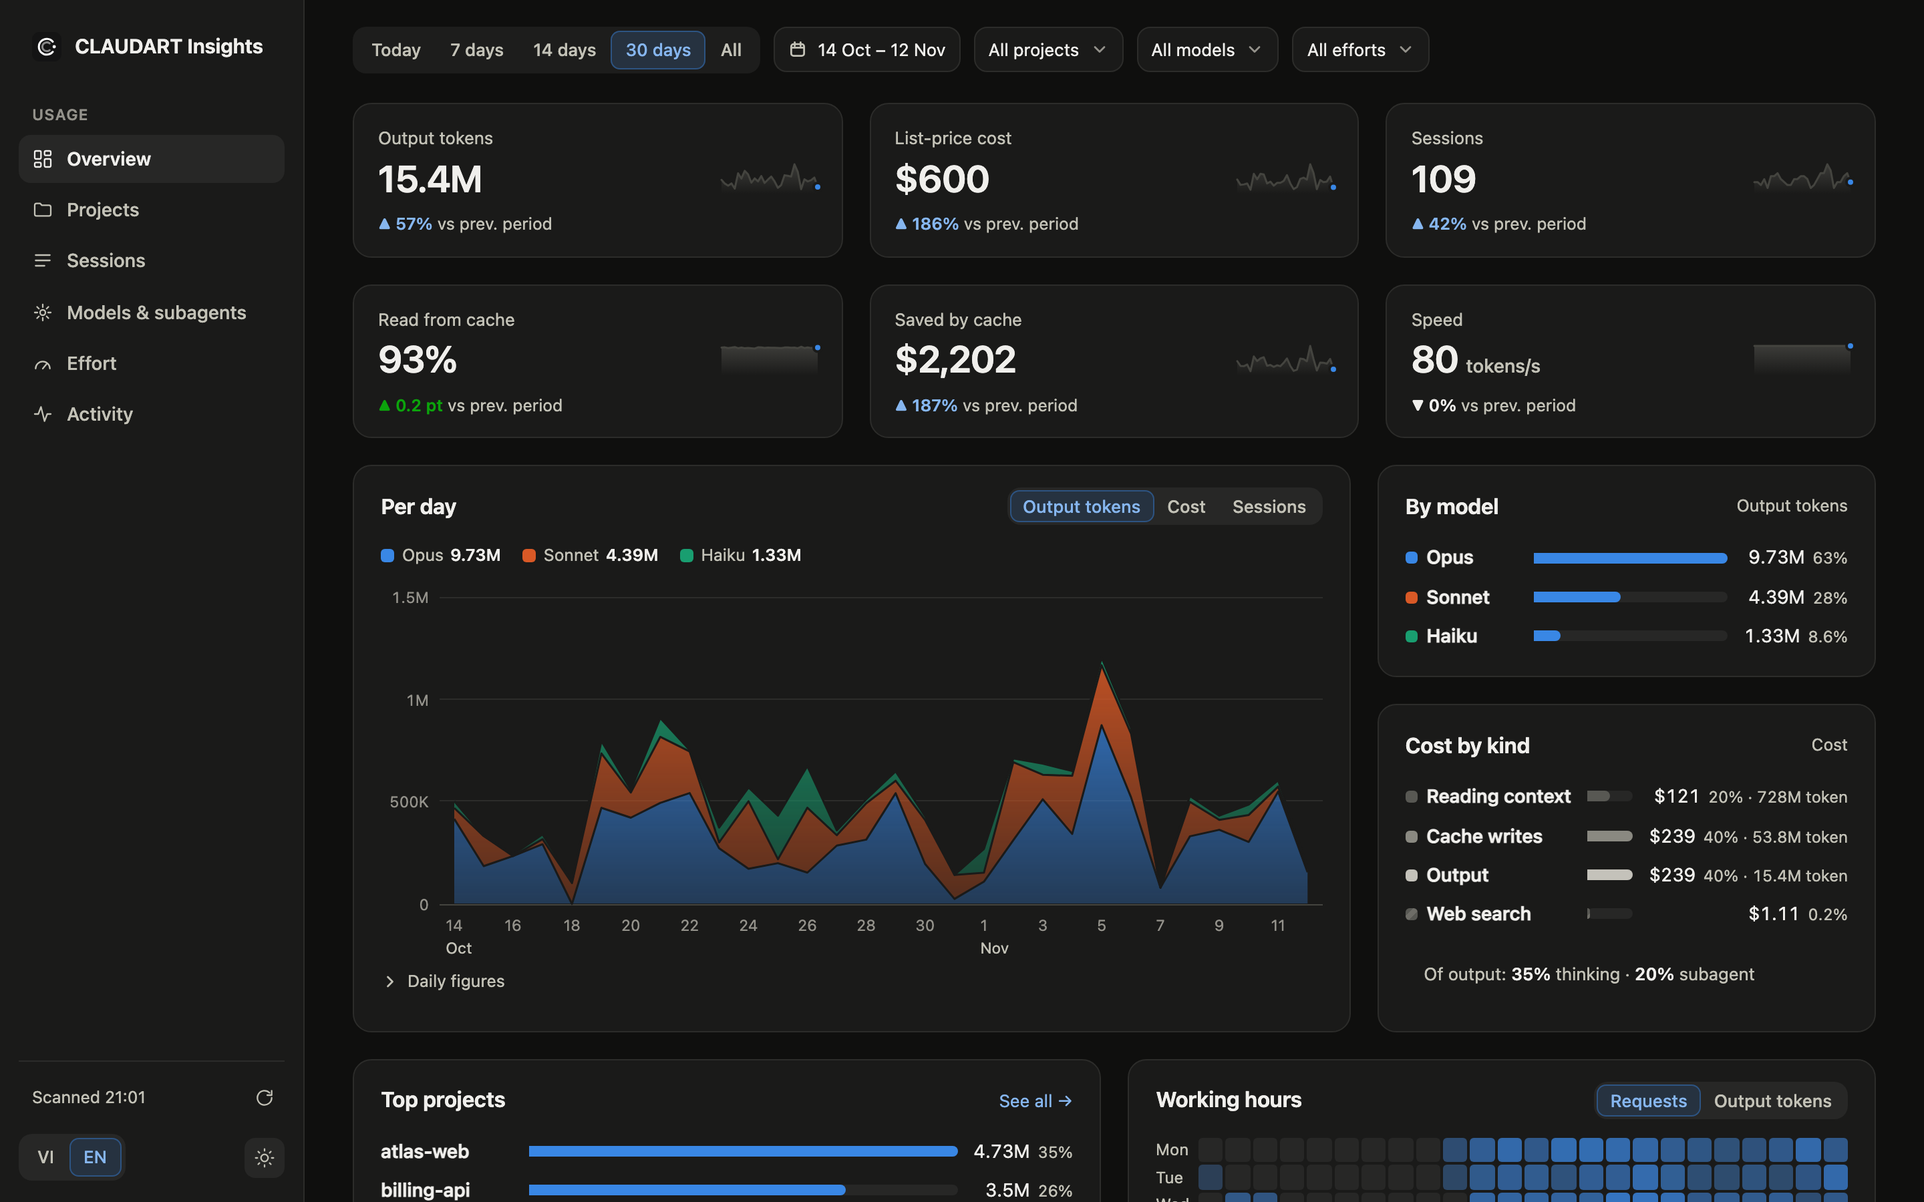
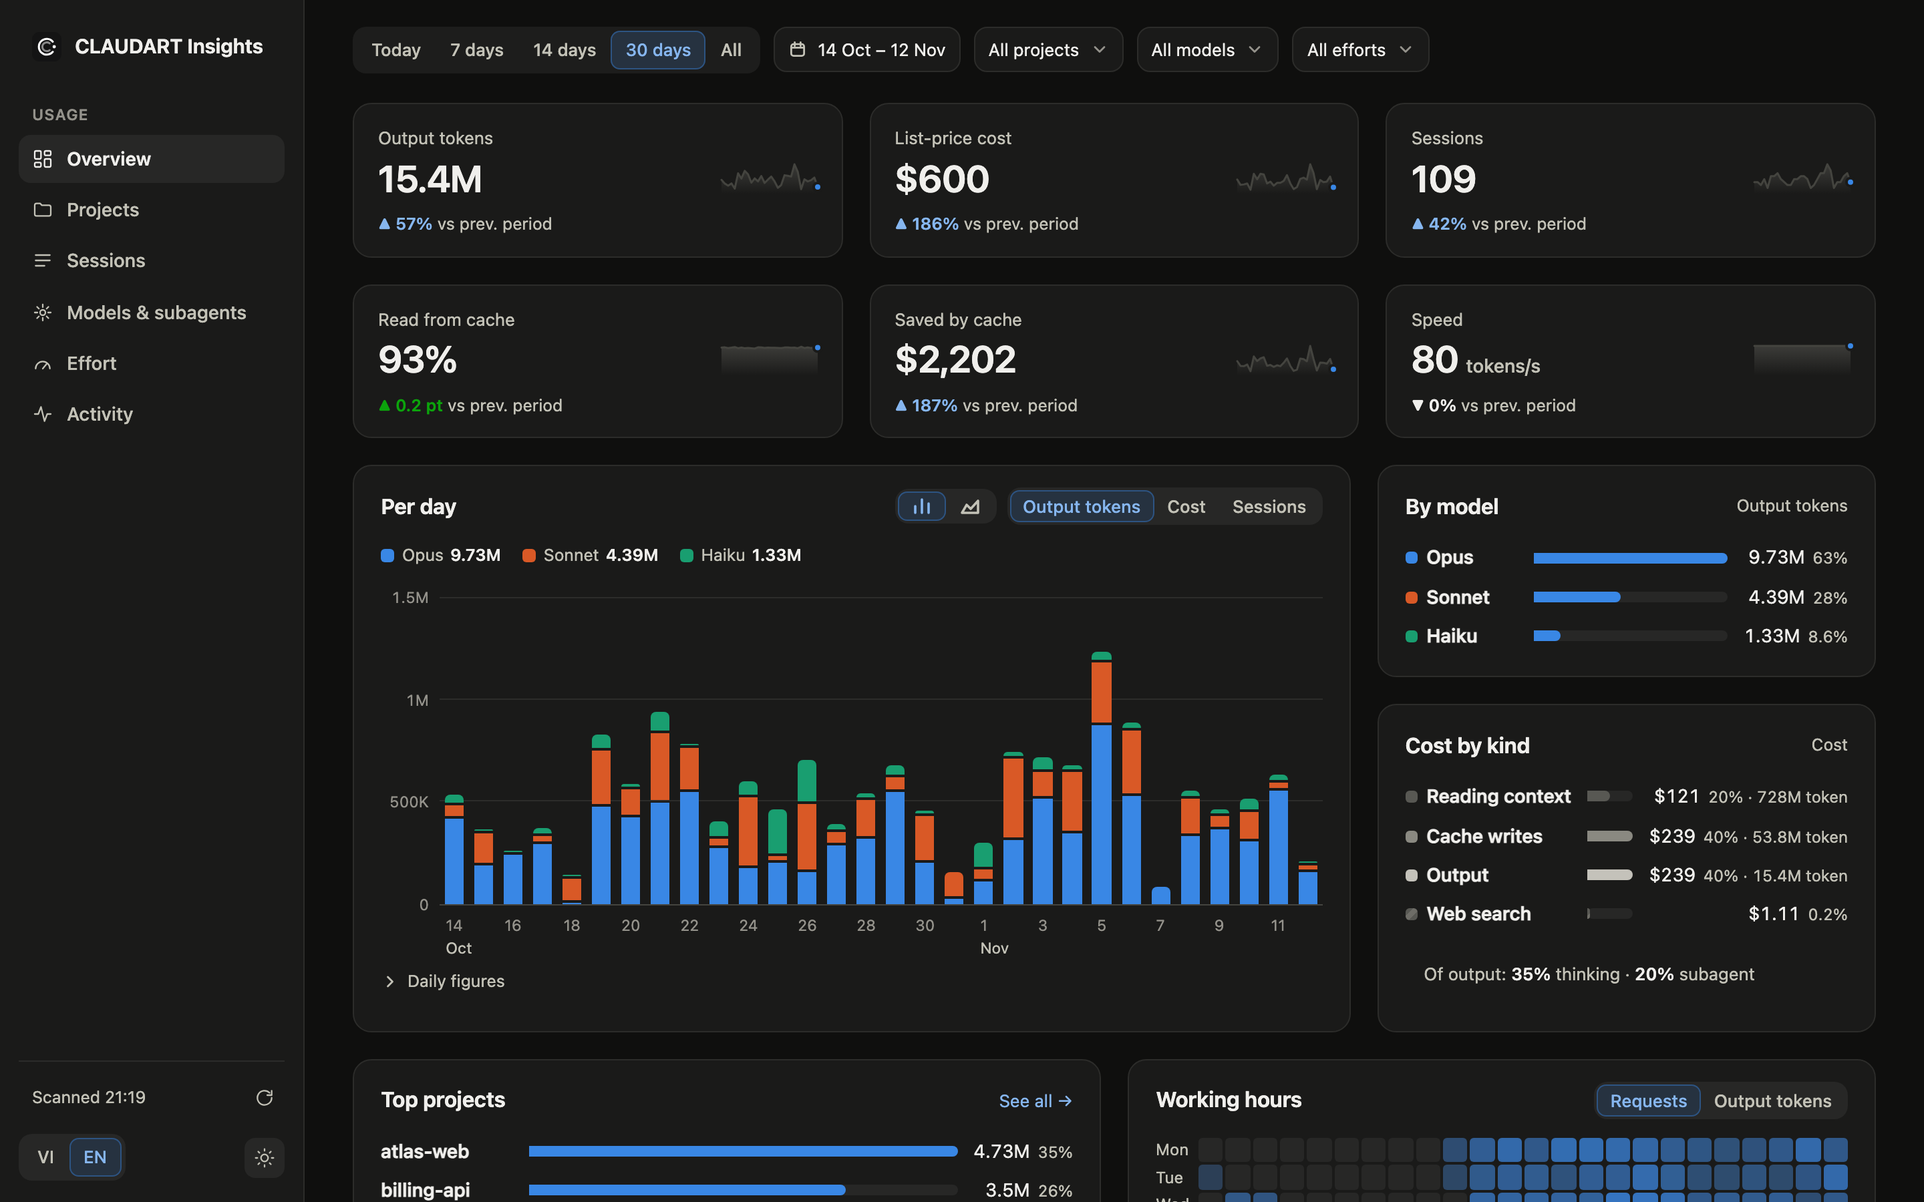
feat(dashboard): let each per-day chart switch between columns and areas

Changed region(s): [[0.2188, 0.5289, 0.6875, 0.7778], [0.4688, 0.4044, 0.5, 0.4356]]

diff --git a/dashboard/src/i18n.tsx b/dashboard/src/i18n.tsx
@@ -2,7 +2,7 @@
 export const T = {
   vi: { usage: "Sử dụng", overview: "Tổng quan", projects: "Dự án", sessions: "Phiên làm việc", models: "Model & subagent", activity: "Hoạt động",
     scanned: "Quét lúc", untitled: "(chưa có tiêu đề)", costUnknown: "Không có bản ghi chi phí của host", costEstimated: "Không có bản ghi chi phí của host; ước tính theo bảng giá", costPartial: "Host đánh dấu chi phí chưa đủ", today: "Hôm nay", perHour: "Theo giờ", hour: "Giờ", d7: "7 ngày", d14: "14 ngày", d30: "30 ngày", all: "Tất cả", dates: "Khoảng ngày", prevMonth: "Tháng trước", nextMonth: "Tháng sau", clear: "Xoá", allProjects: "Tất cả dự án", allModels: "Tất cả model", project: "Dự án", model: "Model", reset: "Bỏ lọc",
-    out: "Output token", cost: "Chi phí", costList: "Chi phí niêm yết", sess: "Phiên", cache: "Đọc từ cache", saved: "Cache tiết kiệm", savedTip: "So với gửi lại cả context làm input ở mỗi request, đã trừ phần ghi cache trả thêm", perM: "$ / 1M token", behave: "Mỗi model làm việc thế nào", bOut: "Output mỗi request", bThink: "Thinking trong output", bSteps: "Request mỗi lượt owner", bTools: "Tool call mỗi request", bFail: "Tool call lỗi", bSpeed: "Tốc độ output", oneModel: "Phiên chỉ dùng model này", speed: "Tốc độ", tps: "token/giây", vsPrev: "so với kỳ trước", noPrev: "chưa có kỳ trước",
+    out: "Output token", cost: "Chi phí", costList: "Chi phí niêm yết", sess: "Phiên", cache: "Đọc từ cache", saved: "Cache tiết kiệm", bars: "Dạng cột", areas: "Dạng vùng", savedTip: "So với gửi lại cả context làm input ở mỗi request, đã trừ phần ghi cache trả thêm", perM: "$ / 1M token", behave: "Mỗi model làm việc thế nào", bOut: "Output mỗi request", bThink: "Thinking trong output", bSteps: "Request mỗi lượt owner", bTools: "Tool call mỗi request", bFail: "Tool call lỗi", bSpeed: "Tốc độ output", oneModel: "Phiên chỉ dùng model này", speed: "Tốc độ", tps: "token/giây", vsPrev: "so với kỳ trước", noPrev: "chưa có kỳ trước",
     ofOut: "Trong output", perDay: "Theo ngày", byModel: "Theo model", byProject: "Theo dự án", topProjects: "Dự án dùng nhiều nhất", seeAll: "Xem tất cả", hours: "Khung giờ làm việc", peak: "Cao điểm", topSessions: "Phiên lớn nhất", dailyTable: "Bảng số liệu theo ngày", hourlyTable: "Bảng số liệu theo giờ",
     day: "Ngày", total: "Tổng", start: "Bắt đầu", title: "Tiêu đề", dur: "Thời lượng", turns: "Lượt owner", subs: "Subagent", activeDays: "Ngày hoạt động", mainModel: "Model chính", trend: "Xu hướng", other: "Khác", search: "Tìm tiêu đề, dự án…", shown: "phiên", more: "Hiện thêm",
     requests: "Request", input: "Input", thinking: "Thinking", cacheRead: "Cache đọc", cacheWrite: "Cache ghi", share: "Tỷ trọng", allEfforts: "Mọi effort", effShare: "Mỗi mức effort chiếm bao nhiêu", leadMore: (n: string, q: string, c: string) => <><b>{n}</b> chiếm {q} số request nhưng tới <b>{c}</b> chi phí.</>, leadLess: (n: string, q: string, c: string) => <><b>{n}</b> chiếm {q} số request và chỉ {c} chi phí.</>, price: "Output mỗi request theo mức effort", priceInfo: "Số lớn là output trung bình mỗi request ở mức đó, thinking tính cả. Phần lớn phiên giữ một mức suốt phiên, nên so thẳng hai mức là so hai nhóm việc khác nhau. Vì vậy dòng \"× high\" chỉ so trong những phiên chạy cả mức đó lẫn high, mỗi mức ít nhất 5 request, rồi lấy trung vị. Dưới 3 phiên như vậy thì không ghi.", vsLevel: "So với", nBoth: (n: number) => `trong ${n} phiên chạy cả hai mức`, fewBoth: (n: number) => (n ? `chỉ ${n} phiên chạy cả hai mức, chưa đủ để so` : "chưa phiên nào chạy cả hai mức"), perReq: "/ request", costShare: "Tỷ trọng chi phí", subEffort: "Effort của subagent", switches: "Các phiên đã đổi effort", nSwitch: "Lần đổi", effort: "Effort", subTypes: "Subagent theo loại", count: "Số lần", ranOn: "Chạy trên",
@@ -16,7 +16,7 @@ export const T = {
     refresh: "Làm mới", scanning: "Đang quét…", bootFind: "Đang tìm transcript…", bootFirst: "Đang đọc transcript lần đầu", bootRebuild: "Đang dựng lại dữ liệu sau khi cập nhật", bootUpdate: "Đang quét transcript mới", bootFinish: "Đang tổng hợp số liệu…", transcripts: "transcript", retry: "Thử lại", scanNew: (n: number) => `${n} phiên mới`, scanFail: "Quét lỗi", loadFail: "Không đọc được dữ liệu", loading: "Đang tải…" },
   en: { usage: "Usage", overview: "Overview", projects: "Projects", sessions: "Sessions", models: "Models & subagents", activity: "Activity",
     scanned: "Scanned", untitled: "(untitled)", costUnknown: "No cost record from the host", costEstimated: "No cost record from the host; estimated from the price table", costPartial: "The host marked this cost incomplete", today: "Today", perHour: "Per hour", hour: "Hour", d7: "7 days", d14: "14 days", d30: "30 days", all: "All", dates: "Date range", prevMonth: "Previous month", nextMonth: "Next month", clear: "Clear", allProjects: "All projects", allModels: "All models", project: "Project", model: "Model", reset: "Clear filters",
-    out: "Output tokens", cost: "Cost", costList: "List-price cost", sess: "Sessions", cache: "Read from cache", saved: "Saved by cache", savedTip: "Against sending the whole context as input on every request, less what cache writes cost extra", perM: "$ / 1M tokens", behave: "How each model works", bOut: "Output per request", bThink: "Thinking share of output", bSteps: "Requests per owner turn", bTools: "Tool calls per request", bFail: "Failed tool calls", bSpeed: "Output speed", oneModel: "Sessions on this model only", speed: "Speed", tps: "tokens/s", vsPrev: "vs prev. period", noPrev: "no previous period",
+    out: "Output tokens", cost: "Cost", costList: "List-price cost", sess: "Sessions", cache: "Read from cache", saved: "Saved by cache", bars: "Columns", areas: "Areas", savedTip: "Against sending the whole context as input on every request, less what cache writes cost extra", perM: "$ / 1M tokens", behave: "How each model works", bOut: "Output per request", bThink: "Thinking share of output", bSteps: "Requests per owner turn", bTools: "Tool calls per request", bFail: "Failed tool calls", bSpeed: "Output speed", oneModel: "Sessions on this model only", speed: "Speed", tps: "tokens/s", vsPrev: "vs prev. period", noPrev: "no previous period",
     ofOut: "Of output", perDay: "Per day", byModel: "By model", byProject: "By project", topProjects: "Top projects", seeAll: "See all", hours: "Working hours", peak: "Peak", topSessions: "Largest sessions", dailyTable: "Daily figures", hourlyTable: "Hourly figures",
     day: "Day", total: "Total", start: "Start", title: "Title", dur: "Duration", turns: "Owner turns", subs: "Subagents", activeDays: "Active days", mainModel: "Main model", trend: "Trend", other: "Other", search: "Search title, project…", shown: "sessions", more: "Show more",
     requests: "Requests", input: "Input", thinking: "Thinking", cacheRead: "Cache read", cacheWrite: "Cache write", share: "Share", allEfforts: "All efforts", effShare: "How much each effort level takes", leadMore: (n: string, q: string, c: string) => <><b>{n}</b> is {q} of requests but <b>{c}</b> of cost.</>, leadLess: (n: string, q: string, c: string) => <><b>{n}</b> is {q} of requests and only {c} of cost.</>, price: "Output per request by effort level", priceInfo: "The large figure is the average output of one request at that level, thinking included. Most sessions keep one level throughout, so comparing two levels directly compares different work. The \"× high\" line therefore compares only sessions that ran both that level and high, with at least 5 requests at each, and takes the median. With fewer than 3 such sessions it is left out.", vsLevel: "Against", nBoth: (n: number) => `in ${n} session${n === 1 ? "" : "s"} that ran both levels`, fewBoth: (n: number) => (n ? `only ${n} session${n === 1 ? "" : "s"} ran both levels, too few to compare` : "no session ran both levels"), perReq: "/ request", costShare: "Share of cost", subEffort: "Subagent effort", switches: "Sessions that changed effort", nSwitch: "Changes", effort: "Effort", subTypes: "Subagents by type", count: "Count", ranOn: "Ran on",

diff --git a/dashboard/src/ui.tsx b/dashboard/src/ui.tsx
@@ -50,11 +50,10 @@ function niceTop(max: number) {
 }
 
 // Stacked columns per day, or per hour when list holds hours; with share, each column is the groups' split of 100%.
-// Thirty days or more of totals draw as stacked areas instead, each day still a column to hover; a share keeps its
-// columns, since a day without use has no split to draw. fmt replaces the metric's
-// format; extra adds tooltip rows for a column.
+// Totals draw as stacked areas when the chart toggle says so, each slot still a column to hover; a share keeps its
+// columns, since a day without use has no split to draw. fmt replaces the metric's format; extra adds tooltip rows for a column.
 export function Columns({ list, rows, groups, metric, share = false, fmt, extra }: { list: (string | number)[]; rows: number[][]; groups: Group[]; metric: Metric; share?: boolean; fmt?: (v: number) => string; extra?: (i: number) => TipRow[] }) {
-  const { f } = useDash();
+  const { f, S } = useDash();
   const show = fmt ?? ((v: number) => f.fmt(metric, v));
   const max = Math.max(...rows.map((r) => r.reduce((a, b) => a + b, 0)), 0);
   if (!max) return <Empty />;
@@ -62,7 +61,7 @@ export function Columns({ list, rows, groups, metric, share = false, fmt, extra 
   const h = (i: number, k: number) => (share ? rows[i][k] / (rows[i].reduce((a, b) => a + b, 0) || 1) : rows[i][k]);
   for (let v = 0; v <= top + 1e-9; v += step) ticks.push(v);
   const hourly = typeof list[0] === "number", every = hourly ? 3 : Math.ceil(list.length / 15);
-  const area = !hourly && !share && list.length >= 30, n = list.length;
+  const area = S.chart === "area" && !share && list.length > 1, n = list.length;
   // Each group's band, from the groups below it to its own top, in percent of the plot; the first group is the lowest.
   const cum = list.map((_, i) => { let s = 0; return [0, ...groups.map((_, k) => (s += h(i, k)))]; });
   const px = (i: number) => ((i + 0.5) / n) * 100, py = (v: number) => 100 - (v / top) * 100;
@@ -118,6 +117,21 @@ export function SplitSeg() {
   return (
     <div className="seg" role="group">
       {(["model", "kind"] as const).map((k) => <button key={k} aria-pressed={S.split === k} onClick={() => set({ split: k })}>{t(k === "model" ? "splitModel" : "splitKind")}</button>)}
+    </div>
+  );
+}
+
+// How per-day and per-hour charts draw their totals: stacked columns or stacked areas, for every chart at once.
+export function ChartSeg() {
+  const { S, t, set } = useDash();
+  const icon = { bar: <path d="M3 13V8M8 13V3M13 13V6" />, area: <path d="M2 13L5.5 7l3 3L14 4v9z" /> };
+  return (
+    <div className="seg chartseg" role="group">
+      {(["bar", "area"] as const).map((k) => (
+        <button key={k} aria-pressed={S.chart === k} aria-label={t(k === "bar" ? "bars" : "areas")} data-tip={tip(t(k === "bar" ? "bars" : "areas"), [])} onClick={() => set({ chart: k })}>
+          <svg viewBox="0 0 16 16" aria-hidden="true">{icon[k]}</svg>
+        </button>
+      ))}
     </div>
   );
 }

diff --git a/dashboard/src/views/Activity.tsx b/dashboard/src/views/Activity.tsx
@@ -1,7 +1,7 @@
 import { Fragment, useState, type ReactNode } from "react";
 import { useDash } from "../dash.ts";
 import { dayAdd, rebuilds, skillUses, slice, slotsOf, toolCalls, type Fact, type Model, type Session } from "../model.ts";
-import { Columns, Delta, Empty, Info, Kpi, tip } from "../ui.tsx";
+import { ChartSeg, Columns, Delta, Empty, Info, Kpi, tip } from "../ui.tsx";
 
 // What the agent did: time on the model and on tools, owner turns, lines and compactions against the window
 // before; working time per day beside lines per day; tool calls with their failed part beside the skills used.
@@ -40,13 +40,13 @@ export function Activity({ F, list }: { F: Fact[]; list: string[] }) {
       </div>
       <div className="grid half">
         <section className="card">
-          <header><h2>{t("time")}</h2><span className="hint">{t("idle")}: {f.dur(w.idle / 60)}</span></header>
+          <header><h2>{t("time")}</h2><div className="segs"><span className="hint">{t("idle")}: {f.dur(w.idle / 60)}</span><ChartSeg /></div></header>
           <ul className="legend"><li><i className="c1" />{t("api")}<b>{f.dur(w.api / 60)}</b></li><li><i className="c3" />{t("tool")}<b>{f.dur(w.tool / 60)}</b></li></ul>
           <Columns list={slots} rows={slots.map((_, i) => [api[i], tool[i]])} groups={[{ n: t("api"), c: "c1" }, { n: t("tool"), c: "c3" }]} metric="out" fmt={hours}
             extra={(i) => (idle[i] ? [["c0", t("idle"), hours(idle[i])]] : [])} />
         </section>
         <section className="card">
-          <header><h2>{t("lines")}</h2></header>
+          <header><h2>{t("lines")}</h2><ChartSeg /></header>
           <ul className="legend"><li><i className="c1" />{t("added")}<b>{f.cmp(w.la)}</b></li><li><i className="c4" />{t("removed")}<b>{f.cmp(w.lr)}</b></li></ul>
           <Columns list={slots} rows={slots.map((_, i) => [la[i], lr[i]])} groups={[{ n: t("added"), c: "c1" }, { n: t("removed"), c: "c4" }]} metric="out" fmt={(v) => f.cmp(v)} />
         </section>

diff --git a/dashboard/src/state.ts b/dashboard/src/state.ts
@@ -17,11 +17,12 @@ export type UrlState = {
   metric: "out" | "cost" | "sess";
   split: "model" | "kind"; // how a cost chart splits its columns
   heat: "req" | "out"; // what the hour heatmap counts
+  chart: "bar" | "area"; // how per-day and per-hour charts draw their totals
   sort: SortKey; dir: 1 | -1;
   q: string;
 };
 
-export const DEFAULTS: UrlState = { view: "overview", range: "14", from: "", to: "", project: "", model: "", effort: "", metric: "out", split: "model", heat: "req", sort: "start", dir: -1, q: "" };
+export const DEFAULTS: UrlState = { view: "overview", range: "14", from: "", to: "", project: "", model: "", effort: "", metric: "out", split: "model", heat: "req", chart: "bar", sort: "start", dir: -1, q: "" };
 
 const DAY = /^\d{4}-\d{2}-\d{2}$/;
 const oneOf = <T extends string>(list: readonly T[], v: string | null, fallback: T): T => (list.includes(v as T) ? (v as T) : fallback);
@@ -38,6 +39,7 @@ export function parseUrl(pathname: string, search: string, extraViews: readonly 
     metric: oneOf(["out", "cost", "sess"] as const, p.get("metric"), "out"),
     split: oneOf(["model", "kind"] as const, p.get("split"), "model"),
     heat: oneOf(["req", "out"] as const, p.get("heat"), "req"),
+    chart: oneOf(["bar", "area"] as const, p.get("chart"), "bar"),
     sort: oneOf(SORTS, p.get("sort"), DEFAULTS.sort),
     dir: p.get("dir") === "asc" ? 1 : -1,
     q: p.get("q") ?? "",
@@ -51,6 +53,7 @@ export function toUrl(s: UrlState): string {
   if (s.metric !== DEFAULTS.metric) p.set("metric", s.metric);
   if (s.split !== DEFAULTS.split) p.set("split", s.split);
   if (s.heat !== DEFAULTS.heat) p.set("heat", s.heat);
+  if (s.chart !== DEFAULTS.chart) p.set("chart", s.chart);
   if (s.sort !== DEFAULTS.sort) p.set("sort", s.sort);
   if (s.dir === 1) p.set("dir", "asc");
   const query = p.toString();

diff --git a/dashboard/src/views/Overview.tsx b/dashboard/src/views/Overview.tsx
@@ -2,7 +2,7 @@ import type { ReactNode } from "react";
 import { useDash } from "../dash.ts";
 import { byDay, byDayKinds, costParts, dayAdd, group, sessionRows, slice, slotsOf, totals, type Fact } from "../model.ts";
 import { Disclosure } from "../controls/Disclosure.tsx";
-import { Columns, CostCell, Delta, Empty, Heat, HeatSeg, Kpi, Legend, MetricSeg, Rank, SessionMix, SplitSeg, Title, tip, useCostFlags, useCostKinds, type Side } from "../ui.tsx";
+import { ChartSeg, Columns, CostCell, Delta, Empty, Heat, HeatSeg, Kpi, Legend, MetricSeg, Rank, SessionMix, SplitSeg, Title, tip, useCostFlags, useCostKinds, type Side } from "../ui.tsx";
 
 export function Overview({ F, list }: { F: Fact[]; list: string[] }) {
   const { M, S, filter, t, f, set } = useDash();
@@ -39,7 +39,7 @@ export function Overview({ F, list }: { F: Fact[]; list: string[] }) {
       </div>
       <div className="grid two">
         <section className="card">
-          <header><h2>{hourly ? t("perHour") : t("perDay")}</h2><div className="segs">{metric === "cost" ? <SplitSeg /> : null}<MetricSeg /></div></header>
+          <header><h2>{hourly ? t("perHour") : t("perDay")}</h2><div className="segs"><ChartSeg />{metric === "cost" ? <SplitSeg /> : null}<MetricSeg /></div></header>
           <Legend groups={groups} sums={sums} metric={metric} />
           <Columns list={slots} rows={rows} groups={groups} metric={metric} />
           <Disclosure label={hourly ? t("hourlyTable") : t("dailyTable")}>

diff --git a/dashboard/src/views/Projects.tsx b/dashboard/src/views/Projects.tsx
@@ -2,7 +2,7 @@ import { useLayoutEffect, useRef, useState, type ReactNode } from "react";
 import { useDash } from "../dash.ts";
 import { byDay, slotsOf, totals, type Fact, type Model, type Session } from "../model.ts";
 import { squarify } from "../treemap.ts";
-import { Columns, Legend, Mag, MetricSeg, Swatch, tip } from "../ui.tsx";
+import { ChartSeg, Columns, Legend, Mag, MetricSeg, Swatch, tip } from "../ui.tsx";
 
 const at = (s: Session) => s.day + String(s.hour).padStart(2, "0") + String(s.min).padStart(2, "0");
 
@@ -84,7 +84,7 @@ export function Projects({ F, list }: { F: Fact[]; list: string[] }) {
         </table></div>
       </section>
       <section className="card">
-        <header><h2>{t("byProject")} · {(hourly ? t("perHour") : t("perDay")).toLowerCase()}</h2><span className="hint">{t(S.metric)}</span></header>
+        <header><h2>{t("byProject")} · {(hourly ? t("perHour") : t("perDay")).toLowerCase()}</h2><div className="segs"><span className="hint">{t(S.metric)}</span><ChartSeg /></div></header>
         <Legend groups={groups} sums={sums} metric={S.metric} />
         <Columns list={slots} rows={cols} groups={groups} metric={S.metric} />
       </section>

diff --git a/dashboard/src/state.test.ts b/dashboard/src/state.test.ts
@@ -35,3 +35,11 @@ test("a view a host package adds is routed like a built-in one, and only when it
   const u = new URL(toUrl({ ...DEFAULTS, view: "notes", project: "alpha" }), "http://x");
   assert.deepEqual([parseUrl(u.pathname, u.search, ["notes"]).view, parseUrl(u.pathname, u.search, ["notes"]).project], ["notes", "alpha"]);
 });
+
+test("the chart form is kept in the address, columns by default", () => {
+  assert.equal(parseUrl("/", "").chart, "bar");
+  assert.equal(parseUrl("/", "chart=area").chart, "area");
+  assert.equal(parseUrl("/", "chart=pie").chart, "bar");
+  assert.equal(toUrl({ ...DEFAULTS, chart: "area" }), "/?chart=area");
+  assert.equal(toUrl(DEFAULTS), "/");
+});

diff --git a/dashboard/src/styles.css b/dashboard/src/styles.css
@@ -346,3 +346,6 @@ button.field:focus-visible, .disc:focus-visible, .clear:focus-visible, .cal-step
 .panel h3 { margin: 0 0 10px; font-size: 13px; font-weight: 600; color: var(--ink2); }
 @media (max-width: 1060px) { .panels { grid-template-columns: repeat(2, minmax(0, 1fr)); } }
 @media (max-width: 640px) { .panels { grid-template-columns: minmax(0, 1fr); } }
+.chartseg button { display: inline-flex; align-items: center; }
+.chartseg svg { width: 16px; height: 16px; fill: none; stroke: currentColor; stroke-width: 1.8; stroke-linecap: round; stroke-linejoin: round; }
+.card > header .segs { align-items: center; }
